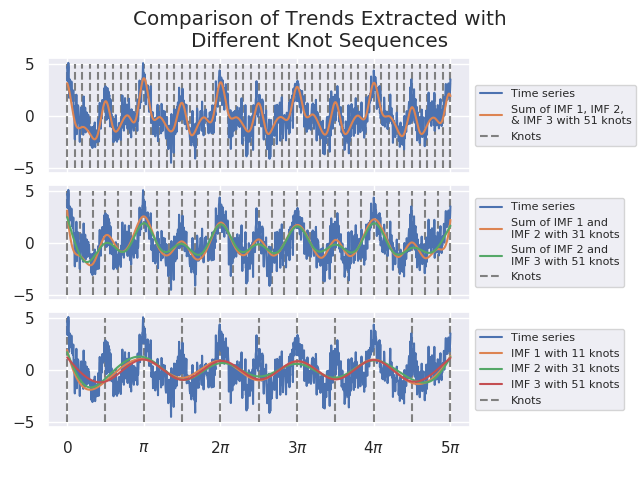
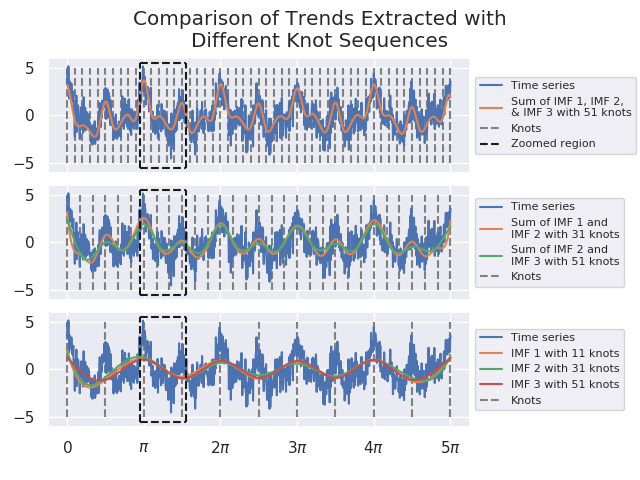
Modified plots demonstrating Detrended Fluctuation Analysis.

diff --git a/jss_figures_replication_script.py b/jss_figures_replication_script.py
@@ -928,6 +928,10 @@ for knot in knots_51:
 axs[0].plot(knot * np.ones(101), np.linspace(-5, 5, 101), '--', c='grey', zorder=1, label='Knots')
 axs[0].set_xticks([0, np.pi, 2 * np.pi, 3 * np.pi, 4 * np.pi, 5 * np.pi])
 axs[0].set_xticklabels(['', '', '', '', '', ''])
+axs[0].plot(np.linspace(0.95 * np.pi, 1.55 * np.pi, 101), 5.5 * np.ones(101), 'k--')
+axs[0].plot(np.linspace(0.95 * np.pi, 1.55 * np.pi, 101), -5.5 * np.ones(101), 'k--')
+axs[0].plot(0.95 * np.pi * np.ones(101), np.linspace(-5.5, 5.5, 101), 'k--')
+axs[0].plot(1.55 * np.pi * np.ones(101), np.linspace(-5.5, 5.5, 101), 'k--', label='Zoomed region')
 box_0 = axs[0].get_position()
 axs[0].set_position([box_0.x0 - 0.05, box_0.y0, box_0.width * 0.85, box_0.height])
 axs[0].legend(loc='center left', bbox_to_anchor=(1, 0.5), fontsize=8)
@@ -944,6 +948,10 @@ axs[1].set_xticklabels(['', '', '', '', '', ''])
 box_1 = axs[1].get_position()
 axs[1].set_position([box_1.x0 - 0.05, box_1.y0, box_1.width * 0.85, box_1.height])
 axs[1].legend(loc='center left', bbox_to_anchor=(1, 0.5), fontsize=8)
+axs[1].plot(np.linspace(0.95 * np.pi, 1.55 * np.pi, 101), 5.5 * np.ones(101), 'k--')
+axs[1].plot(np.linspace(0.95 * np.pi, 1.55 * np.pi, 101), -5.5 * np.ones(101), 'k--')
+axs[1].plot(0.95 * np.pi * np.ones(101), np.linspace(-5.5, 5.5, 101), 'k--')
+axs[1].plot(1.55 * np.pi * np.ones(101), np.linspace(-5.5, 5.5, 101), 'k--', label='Zoomed region')
 
 axs[2].plot(time, time_series, label='Time series')
 axs[2].plot(time, imfs_11[1, :], label='IMF 1 with 11 knots')
@@ -958,12 +966,64 @@ axs[2].set_xticklabels(['$0$', r'$\pi$', r'$2\pi$', r'$3\pi$', r'$4\pi$', r'$5\p
 box_2 = axs[2].get_position()
 axs[2].set_position([box_2.x0 - 0.05, box_2.y0, box_2.width * 0.85, box_2.height])
 axs[2].legend(loc='center left', bbox_to_anchor=(1, 0.5), fontsize=8)
+axs[2].plot(np.linspace(0.95 * np.pi, 1.55 * np.pi, 101), 5.5 * np.ones(101), 'k--')
+axs[2].plot(np.linspace(0.95 * np.pi, 1.55 * np.pi, 101), -5.5 * np.ones(101), 'k--')
+axs[2].plot(0.95 * np.pi * np.ones(101), np.linspace(-5.5, 5.5, 101), 'k--')
+axs[2].plot(1.55 * np.pi * np.ones(101), np.linspace(-5.5, 5.5, 101), 'k--', label='Zoomed region')
 plt.savefig('jss_figures/DFA_different_trends.png')
+plt.show()
+
+# plot 6b
+fig, axs = plt.subplots(3, 1)
+plt.suptitle(textwrap.fill('Comparison of Trends Extracted with Different Knot Sequences Zoomed Region', 40))
+plt.subplots_adjust(hspace=0.1)
+axs[0].plot(time, time_series, label='Time series')
+axs[0].plot(time, imfs_51[1, :] + imfs_51[2, :] + imfs_51[3, :], label=textwrap.fill('Sum of IMF 1, IMF 2, & IMF 3 with 51 knots', 21))
+for knot in knots_51:
+    axs[0].plot(knot * np.ones(101), np.linspace(-5, 5, 101), '--', c='grey', zorder=1)
+axs[0].plot(knot * np.ones(101), np.linspace(-5, 5, 101), '--', c='grey', zorder=1, label='Knots')
+axs[0].set_xticks([0, np.pi, 2 * np.pi, 3 * np.pi, 4 * np.pi, 5 * np.pi])
+axs[0].set_xticklabels(['', '', '', '', '', ''])
+box_0 = axs[0].get_position()
+axs[0].set_position([box_0.x0 - 0.05, box_0.y0, box_0.width * 0.85, box_0.height])
+axs[0].legend(loc='center left', bbox_to_anchor=(1, 0.5), fontsize=8)
+axs[0].set_ylim(-5.5, 5.5)
+axs[0].set_xlim(0.95 * np.pi, 1.55 * np.pi)
+
+axs[1].plot(time, time_series, label='Time series')
+axs[1].plot(time, imfs_31[1, :] + imfs_31[2, :], label=textwrap.fill('Sum of IMF 1 and IMF 2 with 31 knots', 19))
+axs[1].plot(time, imfs_51[2, :] + imfs_51[3, :], label=textwrap.fill('Sum of IMF 2 and IMF 3 with 51 knots', 19))
+for knot in knots_31:
+    axs[1].plot(knot * np.ones(101), np.linspace(-5, 5, 101), '--', c='grey', zorder=1)
+axs[1].plot(knot * np.ones(101), np.linspace(-5, 5, 101), '--', c='grey', zorder=1, label='Knots')
+axs[1].set_xticks([0, np.pi, 2 * np.pi, 3 * np.pi, 4 * np.pi, 5 * np.pi])
+axs[1].set_xticklabels(['', '', '', '', '', ''])
+box_1 = axs[1].get_position()
+axs[1].set_position([box_1.x0 - 0.05, box_1.y0, box_1.width * 0.85, box_1.height])
+axs[1].legend(loc='center left', bbox_to_anchor=(1, 0.5), fontsize=8)
+axs[1].set_ylim(-5.5, 5.5)
+axs[1].set_xlim(0.95 * np.pi, 1.55 * np.pi)
+
+axs[2].plot(time, time_series, label='Time series')
+axs[2].plot(time, imfs_11[1, :], label='IMF 1 with 11 knots')
+axs[2].plot(time, imfs_31[2, :], label='IMF 2 with 31 knots')
+axs[2].plot(time, imfs_51[3, :], label='IMF 3 with 51 knots')
+for knot in knots_11:
+    axs[2].plot(knot * np.ones(101), np.linspace(-5, 5, 101), '--', c='grey', zorder=1)
+axs[2].plot(knot * np.ones(101), np.linspace(-5, 5, 101), '--', c='grey', zorder=1, label='Knots')
+axs[2].set_xticks([np.pi, (3 / 2) * np.pi])
+axs[2].set_xticklabels([r'$\pi$', r'$\frac{3}{2}\pi$'])
+box_2 = axs[2].get_position()
+axs[2].set_position([box_2.x0 - 0.05, box_2.y0, box_2.width * 0.85, box_2.height])
+axs[2].legend(loc='center left', bbox_to_anchor=(1, 0.5), fontsize=8)
+axs[2].set_ylim(-5.5, 5.5)
+axs[2].set_xlim(0.95 * np.pi, 1.55 * np.pi)
+plt.savefig('jss_figures/DFA_different_trends_zoomed.png')
 plt.show()
 
 hs_ouputs = hilbert_spectrum(time, imfs_51, hts_51, ifs_51, max_frequency=12, plot=False)
 
-# plot 6b
+# plot 6c
 ax = plt.subplot(111)
 plt.title(textwrap.fill('Gaussian Filtered Hilbert Spectrum of Simple Sinusoidal Time Seres with Added Noise', 50))
 x_hs, y, z = hs_ouputs
@@ -972,6 +1032,8 @@ ax.pcolormesh(x_hs, y, np.abs(z), cmap='gist_rainbow', vmin=z_min, vmax=z_max)
 ax.plot(x_hs[0, :], 8 * np.ones_like(x_hs[0, :]), '--', label=r'$\omega = 8$', Linewidth=3)
 ax.plot(x_hs[0, :], 4 * np.ones_like(x_hs[0, :]), '--', label=r'$\omega = 4$', Linewidth=3)
 ax.plot(x_hs[0, :], 2 * np.ones_like(x_hs[0, :]), '--', label=r'$\omega = 2$', Linewidth=3)
+ax.set_xticks([0, np.pi, 2 * np.pi, 3 * np.pi, 4 * np.pi])
+ax.set_xticklabels(['$0$', r'$\pi$', r'$2\pi$', r'$3\pi$', r'$4\pi$'])
 plt.ylabel(r'Frequency (rad.s$^{-1}$)')
 plt.xlabel('Time (s)')
 

diff --git a/AdvEMDpy.py b/AdvEMDpy.py
@@ -361,17 +361,17 @@ def stopping_criterion_fail_helper(intrinsic_mode_function_storage, intrinsic_mo
         if stopping_criterion == 'sd':
 
             print(f'IMF_{imf_count}{internal_iteration_count} Standard deviation STOPPING CRITERION MET with sd = '
-                  f'{np.str(np.round(calculated_threshold, 2))} < sd threshold = {stopping_criterion_threshold}')
+                  f'{str(np.round(calculated_threshold, 2))} < sd threshold = {stopping_criterion_threshold}')
 
         elif stopping_criterion == 'sd_11a':
 
             print(f'IMF_{imf_count}{internal_iteration_count} Standard deviation (11a) STOPPING CRITERION MET with '
-                  f'sd = {np.str(calculated_threshold)} < sd threshold = {stopping_criterion_threshold}')
+                  f'sd = {str(calculated_threshold)} < sd threshold = {stopping_criterion_threshold}')
 
         elif stopping_criterion == 'sd_11b':
 
             print(f'IMF_{imf_count}{internal_iteration_count} Standard deviation (11b) STOPPING CRITERION MET with '
-                  f'sd = {np.str(calculated_threshold)} < sd threshold = {stopping_criterion_threshold}')
+                  f'sd = {str(calculated_threshold)} < sd threshold = {stopping_criterion_threshold}')
 
         elif stopping_criterion == 'mft':
 
@@ -667,17 +667,17 @@ def stopping_criterion_pass_helper(intrinsic_mode_function_candidate, intrinsic_
         if stopping_criterion == 'sd':
 
             print(f'IMF_{imf_count}{internal_iteration_count} Standard deviation STOPPING CRITERION NOT MET '
-                  f'with sd = ' + np.str(np.round(calculated_threshold, 2)))
+                  f'with sd = ' + str(np.round(calculated_threshold, 2)))
 
         elif stopping_criterion == 'sd_11a':
 
             print(f'IMF_{imf_count}{internal_iteration_count} Standard deviation (11a) STOPPING CRITERION NOT MET '
-                  f'with sd = ' + np.str(calculated_threshold))
+                  f'with sd = ' + str(calculated_threshold))
 
         elif stopping_criterion == 'sd_11b':
 
             print(f'IMF_{imf_count}{internal_iteration_count} Standard deviation (11b) STOPPING CRITERION NOT MET '
-                  f'with sd = ' + np.str(calculated_threshold))
+                  f'with sd = ' + str(calculated_threshold))
 
         elif stopping_criterion == 'mft':
 
@@ -1423,7 +1423,7 @@ class EMD:
             ########################
 
             # need to make smoothing optional to replicate Huang paper results
-            if initial_smoothing and preprocess=='none':  # smooth initial signal
+            if initial_smoothing and preprocess =='none':  # smooth initial signal
                 time = knot_time
                 if matrix:  # use matrix constructed above to improve speed of algorithm - only B-splines
                     least_square_fit, least_square_fit_coef = \
